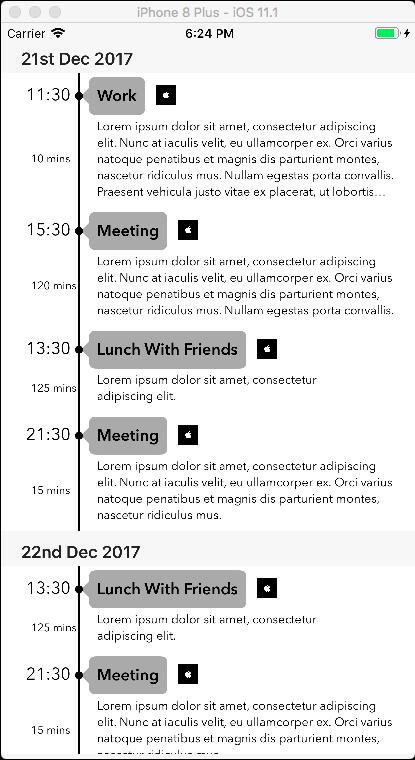
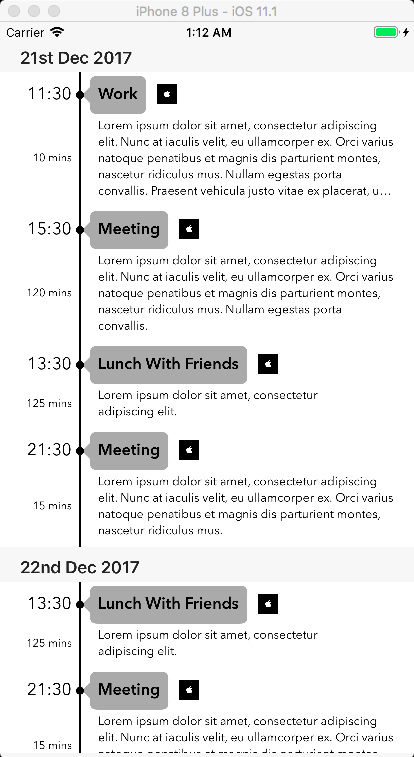
Few bugs fixes

Changed region(s): [[0.0, 0.0, 1.0, 1.0], [0.9855, 0.9723, 1.0, 1.0], [0.0, 0.9723, 0.029, 1.0]]

diff --git a/TimelineTableView/TimelineTableViewCell/TimelineTableViewCell.swift b/TimelineTableView/TimelineTableViewCell/TimelineTableViewCell.swift
@@ -52,12 +52,9 @@ class TimelineTableViewCell: UITableViewCell {
         pointPosition = CGPoint(x: (titleInfoLabel.frame.origin.x - offset + timeInfo.frame.maxX) / 2, y: titleInfoLabel.frame.origin.y + titleInfoLabel.intrinsicContentSize.height / 2 - pointDiameter / 2)
         
         lineStart = CGPoint(x: pointPosition.x + pointDiameter / 2, y: 0)
-        lineMiddle = CGPoint(x: lineStart.x, y: pointPosition.y)
         lineEnd = CGPoint(x: lineStart.x, y: self.bounds.size.height)
         
-        drawLine(from: lineStart, to: lineMiddle, color: color)
-        drawLine(from: lineMiddle, to: lineEnd, color: color)
-        
+        drawLine(from: lineStart,  to: lineEnd, color: color)
         
         drawPoint()
         
